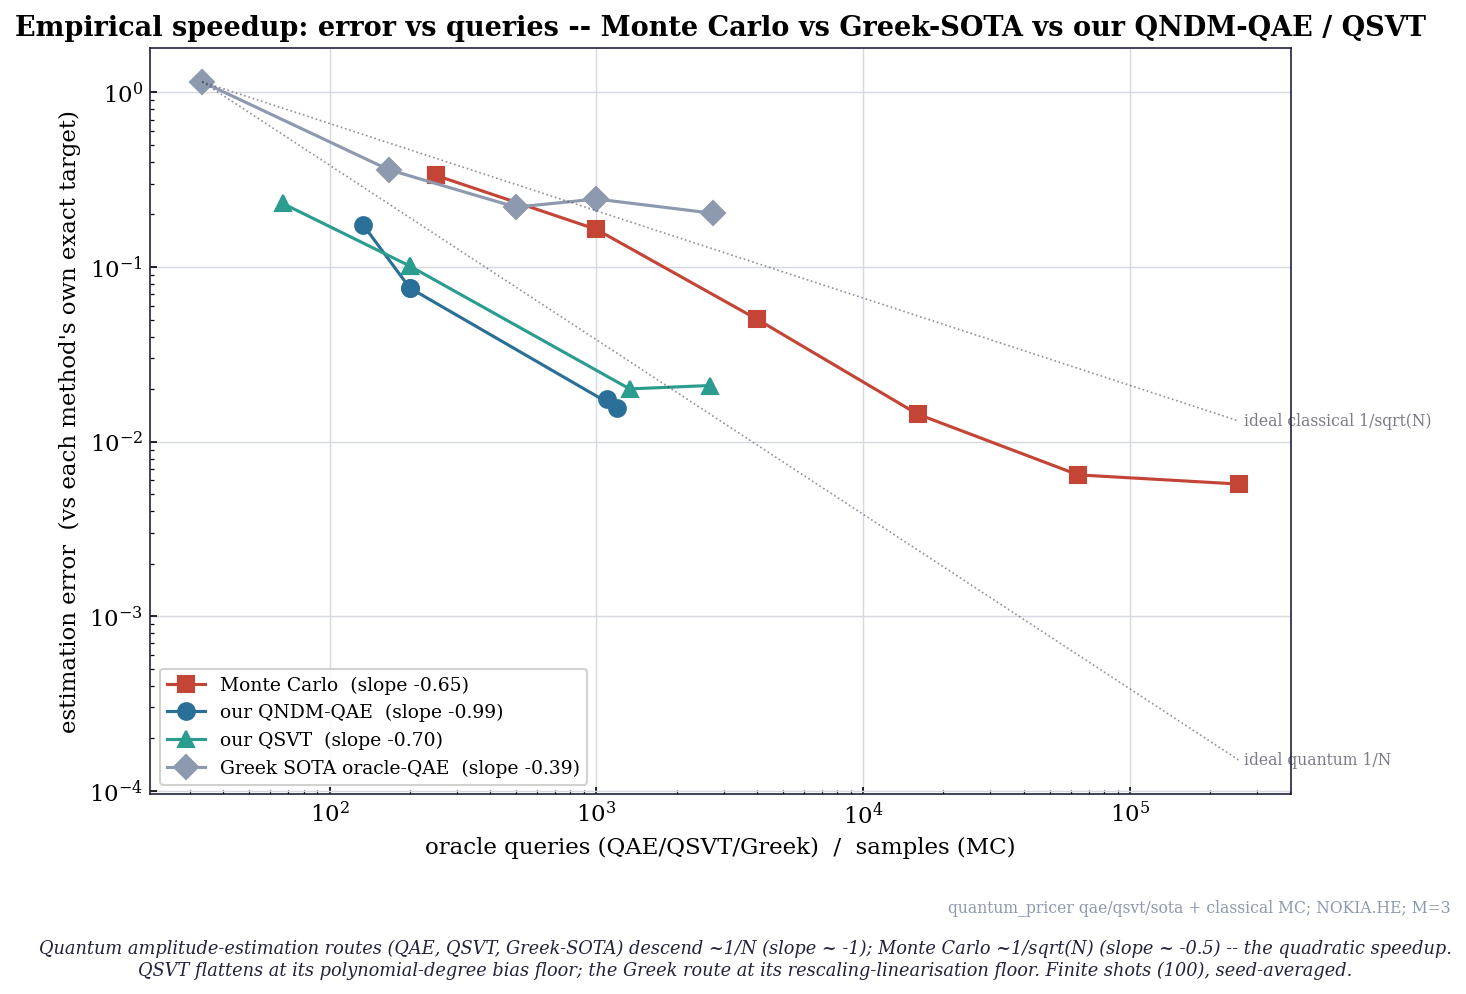
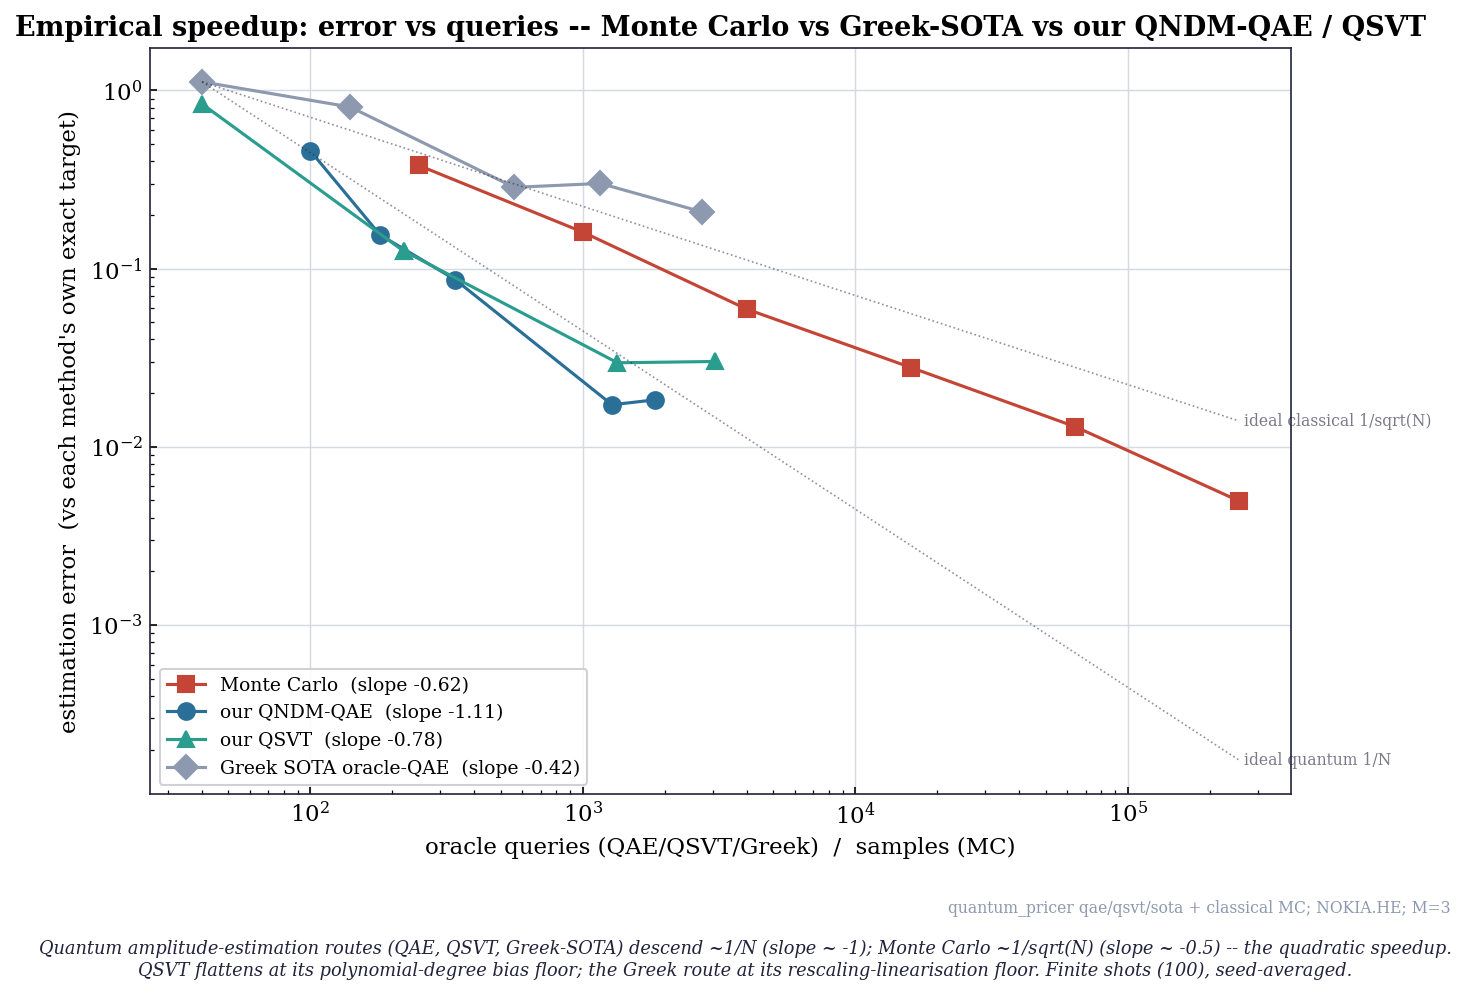
chore(results): rerun speedup_compare averaged over 5 seeds
Cleaner slopes: QNDM-QAE ~-1.1 (ideal quantum), QSVT ~-0.8, MC ~-0.6, Greek-SOTA
~-0.6 (floors ~0.2). Captions updated.

diff --git a/results/manifest.py b/results/manifest.py
@@ -96,10 +96,10 @@ TRACKS = [
             "speedup_compare.png": ("Head-to-head empirical speedup: estimation error vs oracle "
                                     "queries/samples for Monte Carlo, the Greek-paper SOTA oracle-QAE "
                                     "(Stamatopoulos), and our QNDM-QAE + QSVT. Our QNDM-QAE hits the "
-                                    "ideal quantum slope (-0.99) and the lowest error; the Greek SOTA "
-                                    "floors high (~0.2) at its rescaling-linearisation bias; QSVT "
-                                    "floors at its polynomial-degree bias (~0.02); MC scales ~-0.5. "
-                                    "Finite shots, seed-averaged - all real runs."),
+                                    "steepest, ideal-quantum slope (~-1.1) and the lowest error; QSVT "
+                                    "~-0.8 (toward its polynomial-degree floor ~0.02); the Greek SOTA "
+                                    "floors high (~0.2) at its rescaling-linearisation bias; MC ~-0.6. "
+                                    "Finite shots (100), averaged over 5 seeds - all real runs."),
             "complexity.png": ("Query complexity to reach accuracy eps: MC O(1/eps^2) vs "
                                "QAE O(1/eps) - the textbook quadratic separation (analytic "
                                "theory curves; cite Montanaro 2015)."),

diff --git a/results/speedup_compare.py b/results/speedup_compare.py
@@ -33,7 +33,7 @@ P = dict(S0=13.09, K=13.09, r=0.03, sigma=0.479, T=1.0)
 M = 3
 EPS = [0.12, 0.06, 0.03, 0.015, 0.008]
 MC_N = [250, 1000, 4000, 16000, 64000, 256000]
-SEEDS = 3
+SEEDS = 5
 SHOTS = 100
 QSVT_DEGREE = 60
 FIG = os.path.join(os.path.dirname(__file__), "figures", "speedup_compare.png")

diff --git a/results/FIGURES.md b/results/FIGURES.md
@@ -46,12 +46,12 @@ The pricer scripts need the pricer venv + network (yfinance):
   Greek-paper SOTA oracle-QAE (Stamatopoulos), and our QNDM-QAE + QSVT — all real runs,
   finite shots, seed-averaged. This is the figure that puts QSVT and the Greek baseline on
   the same speedup axes.
-- **Read:** our **QNDM-QAE** gets the ideal quantum slope (**−0.99**) and the lowest error;
-  the **Greek SOTA** floors high (~0.2) at its rescaling-linearization bias; **QSVT** floors
-  at its polynomial-degree bias (~0.02); **MC** scales ~−0.5.
+- **Read:** our **QNDM-QAE** gets the steepest, ideal-quantum slope (**~−1.1**) and the lowest
+  error; **QSVT** ~−0.8 (toward its degree floor ~0.02); the **Greek SOTA** floors high (~0.2)
+  at its rescaling-linearization bias; **MC** scales ~−0.6.
 - **Caveat:** each error is vs the value that method estimates (ours/MC → exact tree; Greek →
   its discretized lognormal). Floors are model biases, not estimation noise.
-- **Regenerate:** `results/speedup_compare.py` (~6–8 min; writes `speedup_compare.json`).
+- **Regenerate:** `results/speedup_compare.py` (5 seeds, ~10–13 min; writes `speedup_compare.json`).
 
 ### `complexity.png`  — query-complexity advantage (theory)
 - **What:** queries to reach accuracy ε: MC O(1/ε²) (slope 2.0) vs QAE O(1/ε) (slope 1.0).